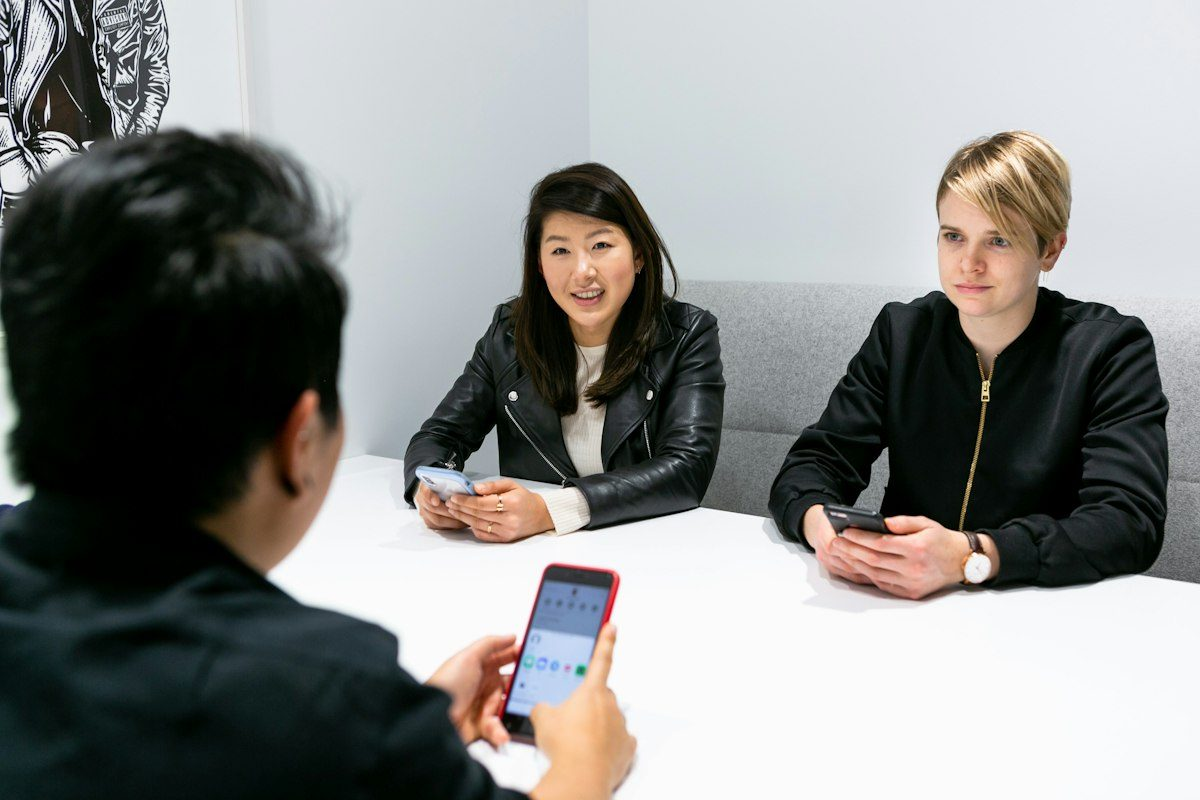
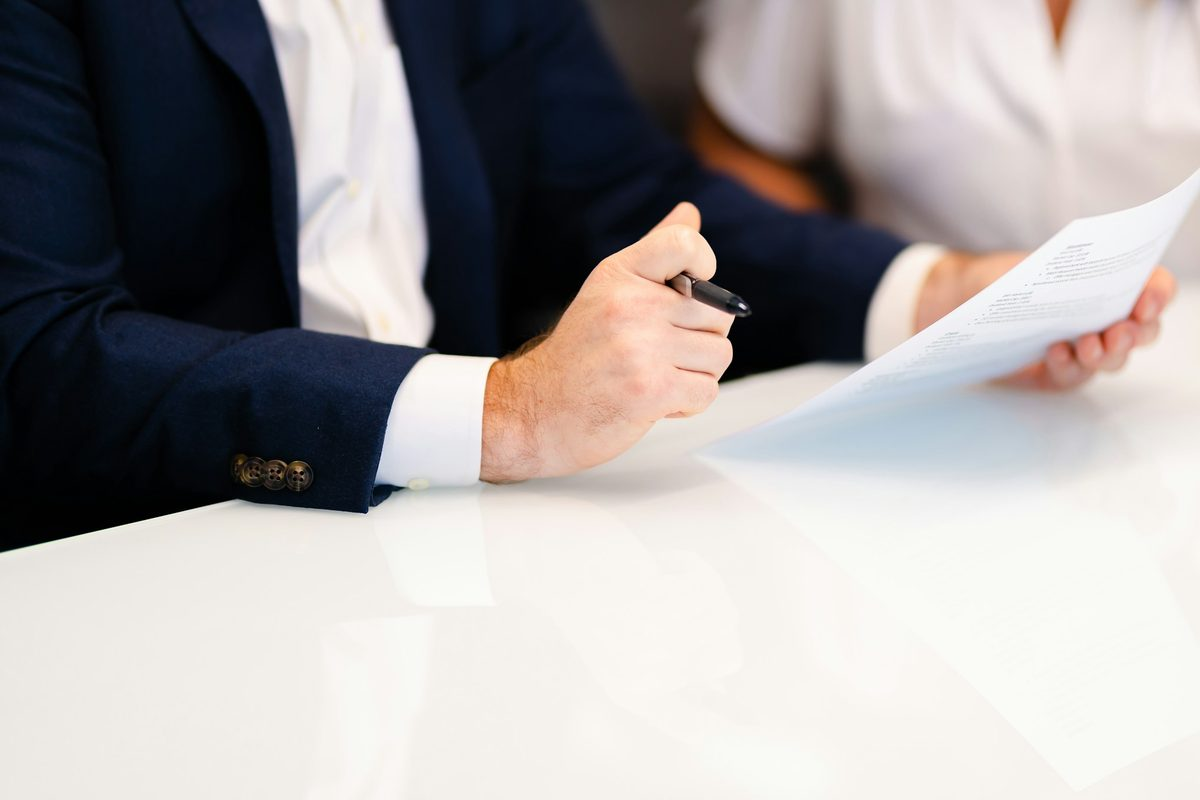
スマホ表示の調整と採用支援の写真差し替え
- About・Member 冒頭の線：スマホは本数を減らしほぼ水平に細く、タブレット幅はメニューにかからない高さに
- メンバー：スマホなど乗せられない端末では、役員の写真が画面中央を通るあいだカラーに
- トップの見出しが一度沈んでから出直す不具合を修正（6ページとも「隠す」初期状態を head で先に付ける）
- 採用支援の写真を、顔の写らない面談の手元の写真（Unsplash / Carrie Allen）に差し替え

diff --git a/docs/index.html b/docs/index.html
@@ -3,6 +3,8 @@
 <head>
 <meta charset="utf-8">
 <meta name="viewport" content="width=device-width, initial-scale=1, viewport-fit=cover">
+<!-- 動きの最初の状態（隠す）を、本文が表示される前に決めておく。ページ末尾で付けると、一度表示された文字が沈んでから出直して見える -->
+<script>document.documentElement.classList.add("js");</script>
 <title>株式会社JIL｜日本の可能性を、解き放つ。</title>
 <meta name="description" content="株式会社JILは、事業をつくる会社です。プロダクト、新規事業開発支援、採用支援の3つの事業で、AI時代を生きる私たちの手と意思で、日本の可能性を解き放ちます。">
 <meta name="theme-color" content="#F1F2F4">
@@ -398,7 +400,7 @@ canvas { display: block; }
       <div class="biz-list">
         <a class="biz rise" id="biz-1" href="product/"><span class="th"><img src="img/biz_product.jpg" alt="アプリの画面をスマートフォンで確かめる手元" loading="lazy"></span><span class="bd"><span class="cap">01 — Products</span><span class="nm">プロダクト</span><span class="ds"><b>AIで、これまでにない体験をつくる。</b><span class="nw">「Japan is Lovely」を体現するプロダクトを、自分たちの手で開発しています。</span><span class="tg"><i>えほんにおいでよ</i><i>llabo</i><i>AIインサイトバンク</i><i>JWP</i></span></span></span><span class="go" aria-hidden="true">→</span></a>
         <a class="biz rise" id="biz-2" href="bizdev/"><span class="th"><img src="img/biz_service.jpg" alt="エスカレーターを行き交う人たち" loading="lazy"></span><span class="bd"><span class="cap">02 — Business Development</span><span class="nm">新規事業開発支援</span><span class="ds"><b>戦略から、実行まで。ひとつのチームで。</b>新規事業を、構想・検証・開発・立ち上げまで一貫して支援します。年間1,500件を超える事業審査で培った目が強みです。<span class="tg"><i>構想・戦略</i><i>検証</i><i>開発</i><i>立ち上げ</i><i>AI活用</i></span></span><span class="bst"><span class="st"><b><span data-to="1500" data-comma>1,500</span>+<small>件</small></b><span>年間の事業審査</span></span><span class="st"><b><span data-to="10">10</span><small>件／年</small></b><span>新規事業の立ち上げ支援</span></span></span></span><span class="go" aria-hidden="true">→</span></a>
-        <a class="biz rise" id="biz-3" href="recruit/"><span class="th"><img src="img/biz_recruit.jpg" alt="面談で向き合う人たち" loading="lazy"></span><span class="bd"><span class="cap">03 — Recruitment</span><span class="nm">採用支援</span><span class="ds"><b>採用を、事業をつくる力に。</b>300社を超えるHRコンサルティングの知見とAIを掛け合わせ、採用の設計から実務まで支援します。<span class="tg"><i>採用設計</i><i>採用実務</i><i>AI活用</i></span></span><span class="bst"><span class="st"><b><span data-to="300">300</span>+<small>社</small></b><span>HRコンサルティングの支援</span></span></span></span><span class="go" aria-hidden="true">→</span></a>
+        <a class="biz rise" id="biz-3" href="recruit/"><span class="th"><img src="img/biz_recruit.jpg" alt="書類を手に向き合う面談の手元" loading="lazy"></span><span class="bd"><span class="cap">03 — Recruitment</span><span class="nm">採用支援</span><span class="ds"><b>採用を、事業をつくる力に。</b>300社を超えるHRコンサルティングの知見とAIを掛け合わせ、採用の設計から実務まで支援します。<span class="tg"><i>採用設計</i><i>採用実務</i><i>AI活用</i></span></span><span class="bst"><span class="st"><b><span data-to="300">300</span>+<small>社</small></b><span>HRコンサルティングの支援</span></span></span></span><span class="go" aria-hidden="true">→</span></a>
       </div>
     </div>
   </section>

diff --git a/docs/member/index.html b/docs/member/index.html
@@ -3,6 +3,8 @@
 <head>
 <meta charset="utf-8">
 <meta name="viewport" content="width=device-width, initial-scale=1, viewport-fit=cover">
+<!-- 動きの最初の状態（隠す）を、本文が表示される前に決めておく。ページ末尾で付けると、一度表示された文字が沈んでから出直して見える -->
+<script>document.documentElement.classList.add("js");</script>
 <meta name="claude:viewport-fit-sides" content="cover">
 <title>メンバー｜株式会社JIL</title>
 <meta name="description" content="事業開発と生成AIのプロが集まるJILのメンバー。ボードメンバーの経歴と、事業の構想から人に届けるまでをひとつのチームで担う体制をご紹介します。">
@@ -135,6 +137,8 @@ img { display: block; }
 .bm-pic { aspect-ratio: 4 / 5; overflow: hidden; border-radius: 3px; background: #E9EBEE; }
 .bm-pic img { width: 100%; height: 100%; object-fit: cover; filter: grayscale(1) contrast(1.02); transform: scale(1.02); transition: filter .8s var(--ease), transform 1.2s var(--ease); }
 .bm:hover .bm-pic img { filter: grayscale(0); transform: scale(1.05); }
+/* スマホなど乗せられない端末では、写真が画面の真ん中あたりを通るあいだカラーに */
+@media (max-width: 720px), (hover: none) { .bm-pic.is-on img { filter: grayscale(0); transform: scale(1.05); } }
 .bm-bd { display: grid; gap: 14px; align-content: center; }
 .bm-role { display: flex; align-items: center; gap: 14px; font-size: 13px; letter-spacing: .1em; color: var(--ink-2); }
 .bm-role .no { font-family: var(--en); font-weight: 700; color: var(--accent); letter-spacing: .12em; }
@@ -492,6 +496,9 @@ img { display: block; }
   const reduce = matchMedia("(prefers-reduced-motion: reduce)").matches;
   const rio = new IntersectionObserver(es => es.forEach(e => { if (e.isIntersecting) { e.target.classList.add("in-view"); rio.unobserve(e.target); } }), { rootMargin: "0px 0px -8% 0px" });
   document.querySelectorAll(".rise").forEach(el => rio.observe(el));
+  // 役員の写真：画面の真ん中の帯（上下35%を除いた部分）にあるあいだ is-on を付ける。色が付くのはスマホなど乗せられない端末だけ（CSS側で指定）
+  const pio = new IntersectionObserver(es => es.forEach(e => e.target.classList.toggle("is-on", e.isIntersecting)), { rootMargin: "-35% 0px -35% 0px" });
+  document.querySelectorAll(".bm-pic").forEach(el => pio.observe(el));
   // 読んだところから文字が濃くなる一文（文節の途中では改行しない）
   const fills = [...document.querySelectorAll(".js-fill")].map(el => {
     el.querySelectorAll(".w").forEach(w => { const cs = [...w.textContent]; w.textContent = ""; cs.forEach(c => { const s = document.createElement("span"); s.className = "ch"; s.textContent = c; w.appendChild(s); }); });

diff --git a/docs/common/ph-lines.js b/docs/common/ph-lines.js
@@ -14,14 +14,19 @@
 
   // [分かれる位置, 広がり（マイナスは上へ）, 青か]
   const BR = [[.05, -.48, 1], [.11, -.24, 0], [.17, .24, 0], [.24, -.6, 0], [.31, .42, 1], [.39, -.36, 0], [.47, .12, 0], [.56, -.5, 1], [.64, .3, 0]];
+  // スマホはピリオドから右端までが短いので、本数を減らし、早めに分かれて上下へ小さく広がる形にする（急に跳ね上がって絡まって見えないように）
+  const BR_SP = [[.08, -.55, 1], [.16, .5, 0], [.26, -.25, 0], [.36, .85, 1], [.46, -.85, 0], [.56, .2, 0]];
   const draw = (c, w, h, t, p) => {
     // 起点はピリオドの点の中心（文字の箱の下寄り）
-    const r = period.getBoundingClientRect(), hr = hero.getBoundingClientRect();
+    const r = period.getBoundingClientRect(), hr = hero.getBoundingClientRect(), m = mob();
     const ox = r.left + r.width / 2 - hr.left, oy = r.top + r.height * .755 - hr.top, L = w - ox, X = ox + (L + 20) * p;
-    const S = Math.min(h * .42, mob() ? 160 : 250);
-    const main = u => oy - S * .35 * ss(0, 1, u) + S * .05 * Math.sin(u * 5 + t * .4) * ss(0, .2, u);
+    // 広がりの大きさ。スマホはごく控えめに。タブレット幅では上のメニューにかからない高さまでに抑える
+    const S = m ? Math.min(L * .2, 32) : Math.min(h * .42, 250, oy - 90);
+    const main = m
+      ? u => oy - S * .12 * ss(0, 1, u) + S * .04 * Math.sin(u * 4 + t * .4) * ss(0, .3, u)
+      : u => oy - S * .35 * ss(0, 1, u) + S * .05 * Math.sin(u * 5 + t * .4) * ss(0, .2, u);
     c.clearRect(0, 0, w, h);
-    BR.forEach(([u0, sp, blue], k) => {
+    (m ? BR_SP : BR).forEach(([u0, sp, blue], k) => {
       const x0 = ox + L * u0; if (x0 > X) return;
       c.beginPath();
       for (let x = x0; x <= X; x += 5) {

diff --git a/docs/recruit/index.html b/docs/recruit/index.html
@@ -3,6 +3,8 @@
 <head>
 <meta charset="utf-8">
 <meta name="viewport" content="width=device-width, initial-scale=1, viewport-fit=cover">
+<!-- 動きの最初の状態（隠す）を、本文が表示される前に決めておく。ページ末尾で付けると、一度表示された文字が沈んでから出直して見える -->
+<script>document.documentElement.classList.add("js");</script>
 <meta name="claude:viewport-fit-sides" content="cover">
 <title>採用支援｜株式会社JIL</title>
 <meta name="description" content="採用戦略・採用コンセプトづくりから、集客、選考、内定、入社後の定着まで。事業をつくる会社として、事業に効く採用を一緒につくります。">

diff --git a/docs/about/index.html b/docs/about/index.html
@@ -3,6 +3,8 @@
 <head>
 <meta charset="utf-8">
 <meta name="viewport" content="width=device-width, initial-scale=1, viewport-fit=cover">
+<!-- 動きの最初の状態（隠す）を、本文が表示される前に決めておく。ページ末尾で付けると、一度表示された文字が沈んでから出直して見える -->
+<script>document.documentElement.classList.add("js");</script>
 <meta name="claude:viewport-fit-sides" content="cover">
 <title>私たちについて｜株式会社JIL</title>
 <meta name="description" content="JILのミッション・ビジョン・行動指針、人とAIで事業をつくる私たちのやり方、社名「Japan Is Lovely.」の由来、会社概要をご紹介します。">

diff --git a/docs/bizdev/index.html b/docs/bizdev/index.html
@@ -3,6 +3,8 @@
 <head>
 <meta charset="utf-8">
 <meta name="viewport" content="width=device-width, initial-scale=1, viewport-fit=cover">
+<!-- 動きの最初の状態（隠す）を、本文が表示される前に決めておく。ページ末尾で付けると、一度表示された文字が沈んでから出直して見える -->
+<script>document.documentElement.classList.add("js");</script>
 <meta name="claude:viewport-fit-sides" content="cover">
 <title>新規事業開発支援｜株式会社JIL</title>
 <meta name="description" content="年間1,500件を超える事業審査で培った目と、つくり・動かす手で、新規事業を構想・検証・開発・立ち上げまで一貫して支援します。">

diff --git a/docs/product/index.html b/docs/product/index.html
@@ -3,6 +3,8 @@
 <head>
 <meta charset="utf-8">
 <meta name="viewport" content="width=device-width, initial-scale=1, viewport-fit=cover">
+<!-- 動きの最初の状態（隠す）を、本文が表示される前に決めておく。ページ末尾で付けると、一度表示された文字が沈んでから出直して見える -->
+<script>document.documentElement.classList.add("js");</script>
 <meta name="claude:viewport-fit-sides" content="cover">
 <title>プロダクト｜株式会社JIL</title>
 <meta name="description" content="えほんにおいでよ、AI研修「llabo」、AIインサイトバンク、JWP。JILが自ら企画・開発・販売するAIプロダクトをご紹介します。">

diff --git a/05_UIUX改善設計.md b/05_UIUX改善設計.md
@@ -78,3 +78,13 @@
 
 ## 6. 確認のしかた
 - 確認用スクリプト（scratchpad）：6ページ×PC・スマホで、エラー・横はみ出し・メニュー（途中までスクロールしてから開く）・閉じた後の位置・メニューからの移動・全リンクの行き先を自動チェック。すべて問題なし
+
+## 7. その後の修正（2026-10-29）
+- **下層ページ冒頭の線（About・Member）**：スマホではピリオドから右端までが短く、線が右上へ跳ね上がって絡まって見えたため、スマホ（720px未満）は本数を減らしてほぼ水平に細く流す形に。タブレット幅（720〜1080px）は上のメニューにかからない高さまでに抑えた（[docs/common/ph-lines.js](docs/common/ph-lines.js)）
+- **メンバーの役員写真**：スマホなどマウスを乗せられない端末では、写真が画面の真ん中あたりを通るあいだカラーに（PCは今まで通り乗せるとカラー）
+- **トップの見出しが「にょん」と動く**：動きの最初の状態（隠す）をページ末尾で付けていたため、読み込みのタイミングによって一度表示された文字が沈んでから出直していた。6ページとも `<head>` で先に付けるように
+- **採用支援の写真**（トップの採用支援欄・採用支援ページの「相談する」欄）：外国の方が並ぶ面談写真から、顔の写らない手元の写真に差し替え。右上の髪が入らないよう上端を切り落として使用
+
+| ファイル | 内容 | 撮影者 | 写真ID（Unsplash・商用利用可の無料ライセンス） |
+|---|---|---|---|
+| docs/img/biz_recruit.jpg（1200×800）・docs/img/recruit_cta.jpg（1800×1200） | 書類を手に向き合う面談の手元 | Carrie Allen | 1H1LBKvD7ew |
